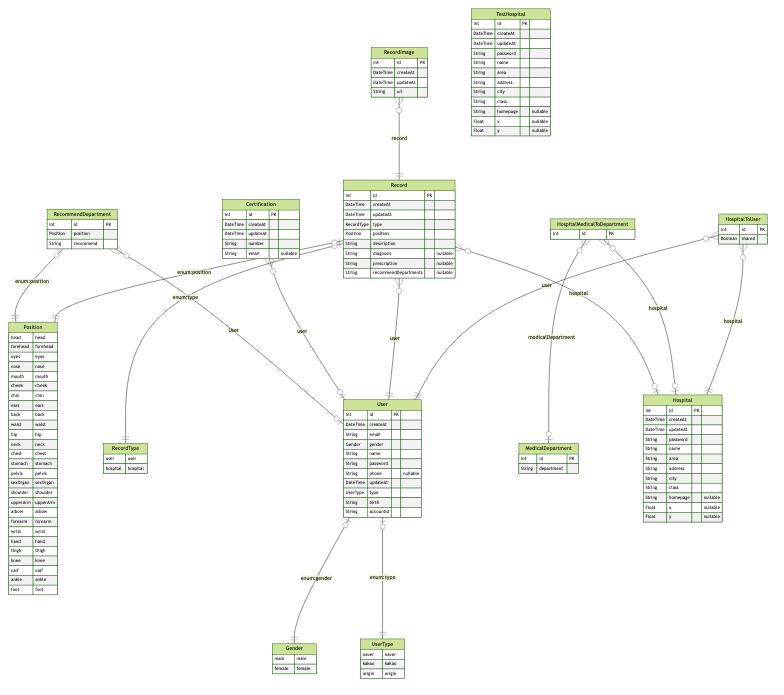
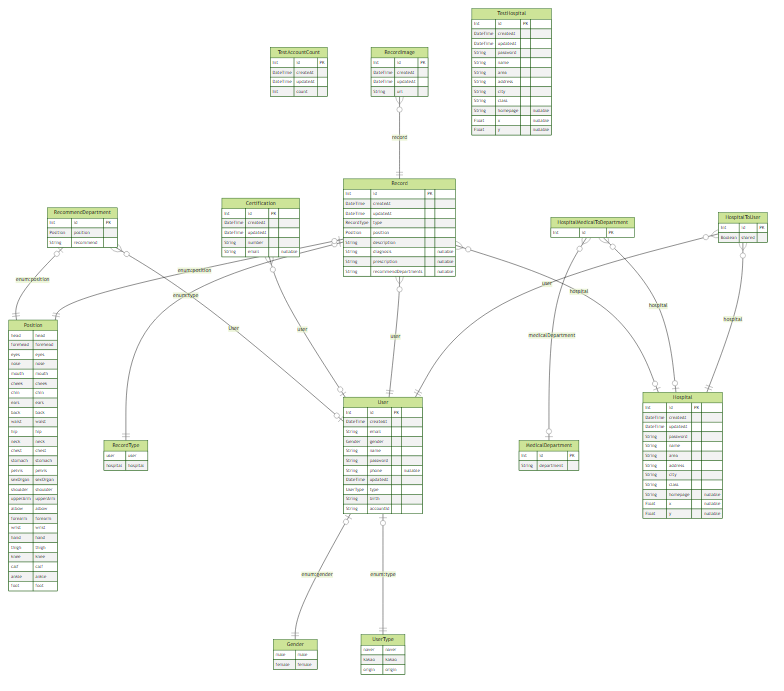
feat(test) : test계정 카운트 세기 추가

diff --git a/next/pages/api/auth/login.ts b/next/pages/api/auth/login.ts
@@ -29,6 +29,18 @@ const handler = async (req: NextApiRequest, res: NextApiResponse) => {
 
 async function loginByOrigin(req: NextApiRequest, res: NextApiResponse) {
   const { accountId, password }: LoginForm = req.body;
+  if (accountId === "bodytory123") {
+    await client.testAccountCount.update({
+      where: {
+        id: 1,
+      },
+      data: {
+        count: {
+          decrement: 1,
+        },
+      },
+    });
+  }
   let foundUser = await client.user.findFirst({
     where: {
       accountId,

diff --git a/next/pages/api/auth/help/find-pw.ts b/next/pages/api/auth/help/find-pw.ts
@@ -33,9 +33,12 @@ const checkToken = async (accountId: string, token: string) => {
 };
 
 const handler = async (req: NextApiRequest, res: NextApiResponse) => {
+  const { user } = req.session;
   const { token, accountId }: HelpForm = req.body;
   if (!accountId) return res.status(400).end();
-
+  if (user?.id === 35) {
+    return res.status(204).end();
+  }
   if (!token) {
     try {
       const user = await checkId(accountId);
